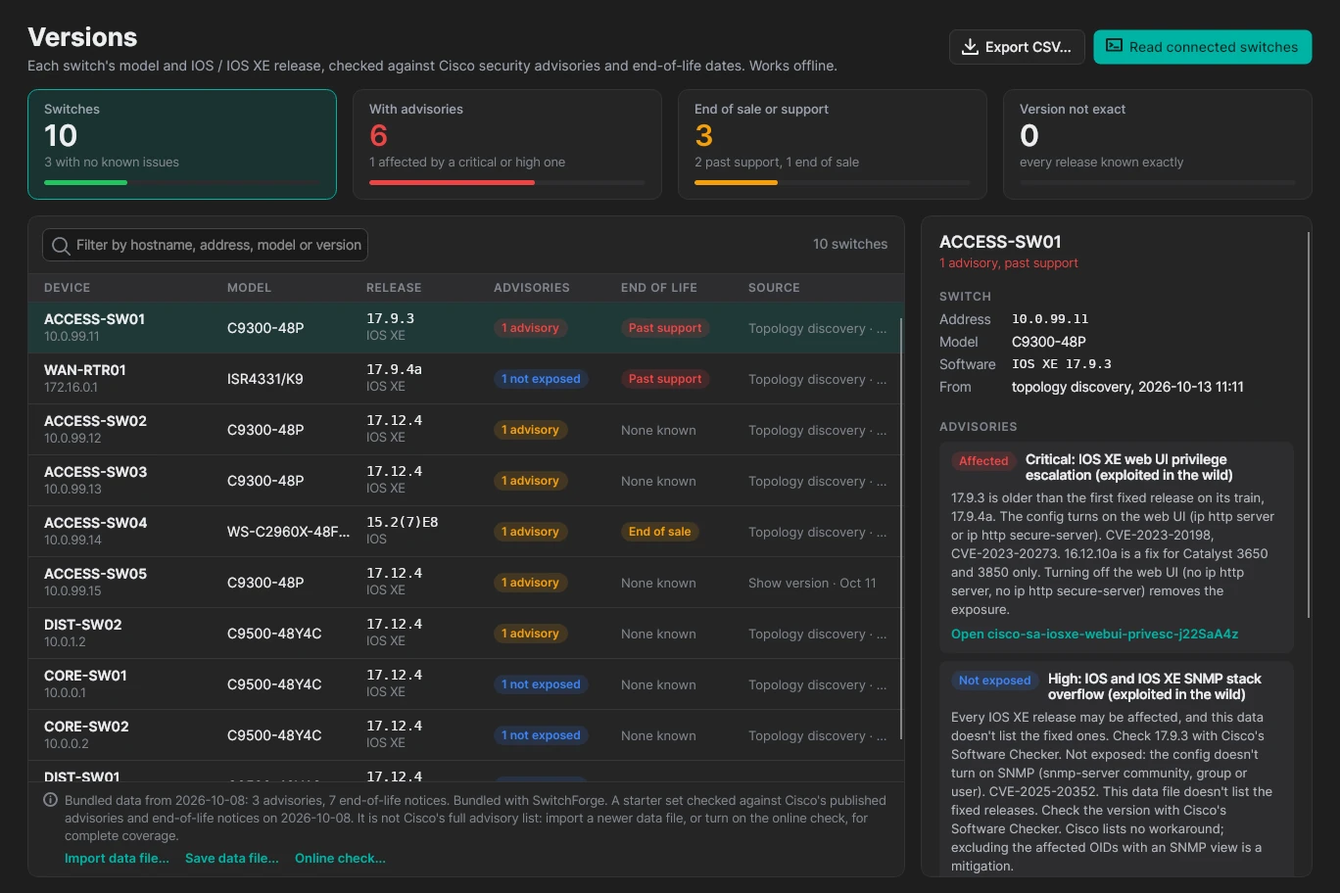
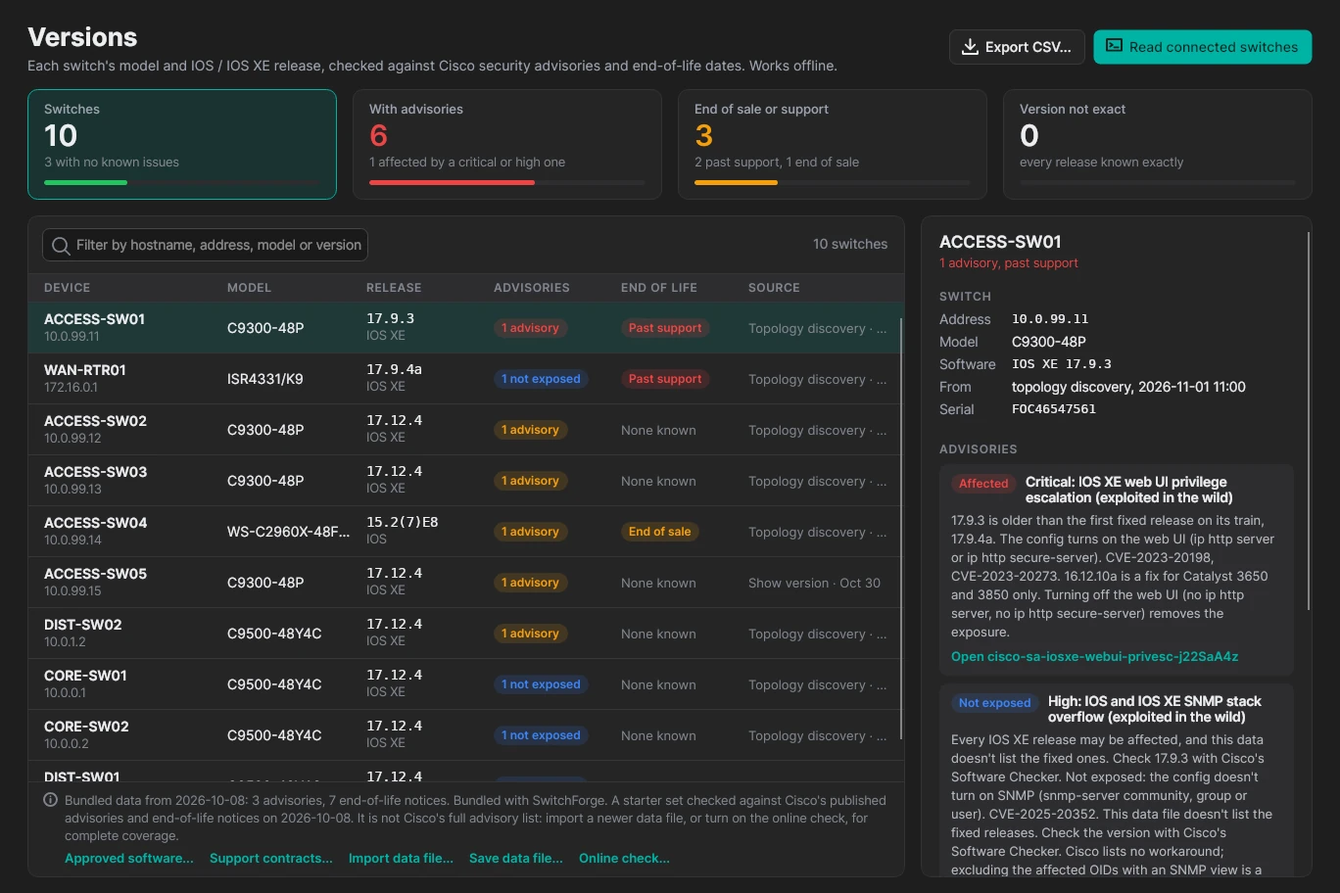
Update the page for 0.8.0: redesigned screenshots and new features
Fresh screenshots of the redesigned app (same sample fleet), a new
'Compare any two versions' block for the diff viewer, and the 0.8.0
features in the Home, Deploy, Comply, Verify and Versions copy. Features
not yet tried on a real switch (backup on change, subnet scan, software
upgrade) say so. Link preview image re-rendered.

Claude-Session: https://claude.ai/code/session_0189rPBmTTVimEn1hnia2L6v

diff --git a/index.html b/index.html
@@ -14,12 +14,12 @@
 <meta property="og:url" content="https://tomadev1.github.io/test-builds/">
 <meta property="og:title" content="SwitchForge · Cisco configs, STIG checks and safe deployment">
 <meta property="og:description" content="Design, check and deploy Cisco configs offline, with DISA STIG checks, evidence-ready checklists and a way back on every change.">
-<meta property="og:image" content="https://tomadev1.github.io/test-builds/assets/og.png?v=0.7.0">
+<meta property="og:image" content="https://tomadev1.github.io/test-builds/assets/og.png?v=0.8.0">
 <meta property="og:image:width" content="1200">
 <meta property="og:image:height" content="630">
 <meta property="og:image:alt" content="SwitchForge: Change Cisco configs without breaking the network, next to the Design page">
 <meta name="twitter:card" content="summary_large_image">
-<meta name="twitter:image" content="https://tomadev1.github.io/test-builds/assets/og.png?v=0.7.0">
+<meta name="twitter:image" content="https://tomadev1.github.io/test-builds/assets/og.png?v=0.8.0">
 <link rel="icon" href="assets/favicon.svg" type="image/svg+xml">
 <link rel="icon" href="assets/favicon-32.png" type="image/png" sizes="32x32">
 <link rel="apple-touch-icon" href="assets/apple-touch-icon.png">
@@ -364,9 +364,9 @@ footer p{max-width:66ch}
     <figure class="shot-hero reveal">
       <div class="window">
         <div class="bar"><i></i><i></i><i></i><span>Design · ACCESS-SW01 · Catalyst C9300-48P + NM-8X</span></div>
-        <img src="assets/img/design.webp?v=0.7.0-2" srcset="assets/img/design.webp?v=0.7.0-2 1x, assets/img/design@2x.webp?v=0.7.0-2 2x" data-full="assets/img/design@2x.webp?v=0.7.0-2"
+        <img src="assets/img/design.webp?v=0.8.0" srcset="assets/img/design.webp?v=0.8.0 1x, assets/img/design@2x.webp?v=0.8.0 2x" data-full="assets/img/design@2x.webp?v=0.8.0"
              width="1600" height="930" fetchpriority="high"
-             alt="The Design page for ACCESS-SW01, a Catalyst C9300-48P with an NM-8X uplink module. Ports 1 to 24 are selected on the front panel and listed one per row with description USER, access mode, VLAN 10 USERS, voice VLAN 20, PoE Auto and BPDU guard. Port settings on the right show access mode, data VLAN 10, voice VLAN 20, PortFast and BPDU guard on, and the config lines for these ports."
+             alt="The Design page for ACCESS-SW01, a Catalyst C9300-48P with an NM-8X uplink module, with the sidebar split into Fleet operations, the device workspace and System. Ports 1 to 24 are selected on the front panel and listed one per row with description USER, access mode, VLAN 10 USERS, voice VLAN 20, PoE Auto and BPDU guard. Port settings on the right show access mode, data VLAN 10, voice VLAN 20, PortFast and BPDU guard on, and the config lines for these ports."
              data-cap="Design: ports 1 to 24 selected on the front panel, listed one per row, with their settings on the right and the config lines they produce underneath.">
       </div>
     </figure>
@@ -382,8 +382,8 @@ footer p{max-width:66ch}
       <a href="#build"><span class="n">01</span><b>Build</b><p>Ports, routing, ACLs, QoS and more. No switch needed.</p></a>
       <a href="#debugger"><span class="n">02</span><b>Validate</b><p>A debugger checks every line as you type.</p></a>
       <a href="#compliance"><span class="n">03</span><b>Comply</b><p>DISA STIGs with evidence and <span class="nw">one-click</span> fixes.</p></a>
-      <a href="#deploy"><span class="n">04</span><b>Deploy</b><p>Safe Commit sends only the changed lines.</p></a>
-      <a href="#fleet"><span class="n">05</span><b>Verify</b><p>Fleet status, drift, versions and topology.</p></a>
+      <a href="#deploy"><span class="n">04</span><b>Deploy</b><p>Review the changes, then send only the changed lines.</p></a>
+      <a href="#fleet"><span class="n">05</span><b>Verify</b><p>An inbox of problems, backups, diffs and versions.</p></a>
     </nav>
   </div>
 </header>
@@ -413,9 +413,9 @@ footer p{max-width:66ch}
         </ul>
       </div>
       <figure class="reveal">
-        <div class="frame"><img src="assets/img/debugger.webp?v=0.7.0-2" srcset="assets/img/debugger.webp?v=0.7.0-2 1x, assets/img/debugger@2x.webp?v=0.7.0-2 2x" data-full="assets/img/debugger@2x.webp?v=0.7.0-2"
+        <div class="frame"><img src="assets/img/debugger.webp?v=0.8.0" srcset="assets/img/debugger.webp?v=0.8.0 1x, assets/img/debugger@2x.webp?v=0.8.0 2x" data-full="assets/img/debugger@2x.webp?v=0.8.0"
           width="1368" height="912" loading="lazy"
-          alt="The Configuration page with a test config loaded: the Global form on the left, the config text in the middle, and the debugger underneath listing 21 problems, including an invalid NTP server, an invalid static route next hop, spanning-tree priority 4097 and Vlan10 overlapping the management subnet, with 14 more on its Compliance tab. On the right, Why is this a problem? explains that 10.20.30.999 isn't a valid IPv4 address, with Show in text and Edit in Design buttons."
+          alt="The Configuration page with a test config loaded: the Global form on the left, the config text in the middle, and the debugger underneath listing 21 problems, including an invalid NTP server, an invalid static route next hop, spanning-tree priority 4097 and Vlan10 overlapping the management subnet, with 16 more on its Compliance tab. On the right, Why is this a problem? explains that 10.20.30.999 isn't a valid IPv4 address, with Show in text and Edit in Design buttons."
           data-cap="A test config full of deliberate mistakes: 21 problems listed under the editor, and the panel explaining why the NTP server is invalid, with Show in text and Edit in Design."></div>
         <figcaption>A test config full of deliberate mistakes, with the reason for the selected one on the right.</figcaption>
       </figure>
@@ -424,7 +424,7 @@ footer p{max-width:66ch}
     <div class="feature">
       <div class="copy reveal">
         <h3>Routing builders: OSPF, EIGRP and&nbsp;BGP</h3>
-        <p>Every part of the config has a form, listed down the left with its status. Shown here: BGP on an edge switch with an ISP neighbor and an iBGP peer.</p>
+        <p>Every part of the config has a form, listed down the left with its status, and the form shows one section at a time. Shown here: BGP on an edge switch with an ISP neighbor and an iBGP peer.</p>
         <ul class="ticks">
           <li><b>Neighbors</b> with their remote AS, description and update source, and switches for activate, <span class="nw">next-hop-self</span> and shutdown</li>
           <li><b>Networks to advertise</b>, one row each</li>
@@ -433,7 +433,7 @@ footer p{max-width:66ch}
         </ul>
       </div>
       <figure class="reveal">
-        <div class="frame"><img src="assets/img/routing.webp?v=0.7.0-2" srcset="assets/img/routing.webp?v=0.7.0-2 1x, assets/img/routing@2x.webp?v=0.7.0-2 2x" data-full="assets/img/routing@2x.webp?v=0.7.0-2"
+        <div class="frame"><img src="assets/img/routing.webp?v=0.8.0" srcset="assets/img/routing.webp?v=0.8.0 1x, assets/img/routing@2x.webp?v=0.8.0 2x" data-full="assets/img/routing@2x.webp?v=0.8.0"
           width="1080" height="852" loading="lazy"
           alt="The Global configuration form with its Sections list on the left, Routing selected and marked OSPF + BGP. The BGP card explains that a neighbor in the same AS is iBGP and one in another AS is eBGP, then shows router bgp 65010 with router ID 10.255.0.11, a neighbor 203.0.113.1 in AS 64999 described as ISP-A CIRCUIT 4471 with its password and route-map lines kept, a neighbor 10.255.0.12 in AS 65010 described as EDGE-02 with update source Loopback0 and next-hop-self on, and network 10.31.0.0 mask 255.255.0.0."
           data-cap="BGP on an edge switch: an eBGP neighbor to the ISP and an iBGP peer, with the lines the form doesn't show kept as written."></div>
@@ -452,7 +452,7 @@ footer p{max-width:66ch}
         </ul>
       </div>
       <figure class="reveal">
-        <div class="frame"><img src="assets/img/acl.webp?v=0.7.0-2" srcset="assets/img/acl.webp?v=0.7.0-2 1x, assets/img/acl@2x.webp?v=0.7.0-2 2x" data-full="assets/img/acl@2x.webp?v=0.7.0-2"
+        <div class="frame"><img src="assets/img/acl.webp?v=0.8.0" srcset="assets/img/acl.webp?v=0.8.0 1x, assets/img/acl@2x.webp?v=0.8.0 2x" data-full="assets/img/acl@2x.webp?v=0.8.0"
           width="784" height="912" loading="lazy"
           alt="The ACL builder. Extended ACL USERS-IN has a remark, Users can't reach the management VLAN, then a logged deny ip from 10.0.10.0/24 to 10.0.99.0/24, a permit udp from any to any eq bootps and a permit ip any any, each with a drag handle and arrows. Below are Add rule, Add remark and Add deny any (logged) buttons, the VTY lines option, the ACL applied to interface Vlan10 (USERS) inbound, and the generated CLI."
           data-cap="ACL builder: extended ACL USERS-IN, applied to Vlan10 inbound, with its generated CLI."></div>
@@ -470,7 +470,7 @@ footer p{max-width:66ch}
         <div class="card"><h4>Management and monitoring</h4><p>SNMPv3, syslog, NetFlow, SPAN and RSPAN, stack provisioning and PoE per port.</p></div>
         <div class="card"><h4>Import a <span class="nw">running-config</span></h4><p>The switch model is detected, and lines stay exactly as the file had them until you edit them. The import report lists anything that wouldn't come back unchanged.</p></div>
         <div class="card"><h4>Copy and paste ports</h4><p>Right-click a port to copy its settings and paste them onto any selection.</p></div>
-        <div class="card"><h4>Scripts and bulk staging</h4><p>Config snippets with variables, Tcl or Python for the switch, and many switches staged from a spreadsheet.</p></div>
+        <div class="card"><h4>Scripts, bulk staging and site templates</h4><p>Config snippets with variables, many switches staged from a spreadsheet, or a whole site described in a short text file: every switch's config and project, a cabling plan and a device list to import.</p></div>
       </div>
     </div>
   </section>
@@ -493,14 +493,15 @@ footer p{max-width:66ch}
         <ul class="ticks">
           <li><b>Evidence written to the checklist</b>: the config lines behind every result</li>
           <li><b><span class="nw">One-click</span> fixes</b> for a rule, or <b>Fix all open</b> findings at once</li>
+          <li><b>Where each rule stands</b> on the switch: Open, Fix staged, Committed, Verified fixed, or Open in design</li>
           <li><b>Filter</b> by result and severity, or search rule IDs, titles and CCIs</li>
           <li><b>Export</b> a <code>.cklb</code> for STIG Viewer 3 and eMASS, a <code>.ckl</code>, or a POA&amp;M draft</li>
         </ul>
       </div>
       <figure class="reveal">
-        <div class="frame"><img src="assets/img/stig.webp?v=0.7.0-2" srcset="assets/img/stig.webp?v=0.7.0-2 1x, assets/img/stig@2x.webp?v=0.7.0-2 2x" data-full="assets/img/stig@2x.webp?v=0.7.0-2"
+        <div class="frame"><img src="assets/img/stig.webp?v=0.8.0" srcset="assets/img/stig.webp?v=0.8.0 1x, assets/img/stig@2x.webp?v=0.8.0 2x" data-full="assets/img/stig@2x.webp?v=0.8.0"
           width="1368" height="912" loading="lazy"
-          alt="The Compliance page's STIG tab, checking the configuration generated for ACCESS-SW01 against the Cisco IOS XE Switch L2S STIG V3R2: open CAT I 1, open CAT II 10, open CAT III 1, not a finding 8 and needs manual review 0, with 12 open of 22 checks. Rule CISC-L2-000020 (V-220649, 802.1X) is selected and open because 802.1X/MAB isn't configured, found by a built-in check. The evidence shows the interface range Gi1/0/1 - 36 lines, and the fix is Turn on 802.1X with MAB fallback. Export .cklb, POA&amp;M, Fix all open and Check fleet buttons sit at the top."
+          alt="The Compliance page's STIG tab, checking the configuration generated for ACCESS-SW01 against the Cisco IOS XE Switch L2S STIG V3R2: open CAT I 1, open CAT II 10, open CAT III 1, not a finding 8 and needs manual review 0, with 12 open of 22 checks. Rule CISC-L2-000020 (V-220649, 802.1X) is selected and open because 802.1X/MAB isn't configured, found by a built-in check, and marked Open in the design. The evidence shows the interface range Gi1/0/1 - 36 lines, and the fix is Turn on 802.1X with MAB fallback. Export .cklb, POA&amp;M, Fix all open and Bulk check buttons sit at the top."
           data-cap="The STIG tab for ACCESS-SW01: 12 open findings by category, rule V-220649 open with the config lines behind it, and its fix."></div>
         <figcaption>Rule V-220649 is open, with the evidence that goes into the checklist and its fix.</figcaption>
       </figure>
@@ -517,7 +518,7 @@ footer p{max-width:66ch}
         </ul>
       </div>
       <figure class="reveal">
-        <div class="frame doc"><div class="bar" aria-hidden="true"><i></i><i></i><i></i><span>ACCESS-SW01 STIG report · HTML</span></div><img src="assets/img/report-stig.webp?v=0.7.0-2" srcset="assets/img/report-stig.webp?v=0.7.0-2 1x, assets/img/report-stig@2x.webp?v=0.7.0-2 2x" data-full="assets/img/report-stig@2x.webp?v=0.7.0-2"
+        <div class="frame doc"><div class="bar" aria-hidden="true"><i></i><i></i><i></i><span>ACCESS-SW01 STIG report · HTML</span></div><img src="assets/img/report-stig.webp?v=0.8.0" srcset="assets/img/report-stig.webp?v=0.8.0 1x, assets/img/report-stig@2x.webp?v=0.8.0 2x" data-full="assets/img/report-stig@2x.webp?v=0.8.0"
           width="820" height="900" loading="lazy"
           alt="An HTML STIG report for ACCESS-SW01 with a CUI banner, a summary table for the L2S STIG (1 CAT I, 10 CAT II and 1 CAT III open, 8 not a finding, 2 not applicable, 0 not reviewed, 40% compliance) and the first of 12 open findings, V-220649, with its CCIs and the configuration lines behind it."
           data-cap="The STIG report for ACCESS-SW01: banner, summary with the compliance score, and each open finding with its evidence."></div>
@@ -536,6 +537,9 @@ footer p{max-width:66ch}
         <div class="card"><h4>Fleet-wide runs</h4><p>Check every switch's newest backup at once, then save one fleet report, one POA&amp;M, or a checklist per switch.</p></div>
         <div class="card"><h4>Policy packs</h4><p>Your own golden standards with required and forbidden lines, scoped by device role.</p></div>
         <div class="card"><h4>STIG release compare</h4><p>See which rules a new STIG release adds, removes or changes before you switch to it.</p></div>
+        <div class="card"><h4>Bulk check a folder</h4><p>Point it at a folder of saved configs and get a summary, the POA&amp;M, and a .cklb and HTML report per switch. Files it can't read are listed with the reason, and never pass.</p></div>
+        <div class="card"><h4>Compliance per feature</h4><p>AAA, SSH and VTY, logging, NTP, SNMP and more, across every switch in one table, saved as CSV.</p></div>
+        <div class="card"><h4>Fix plans</h4><p>Turn the same failure on many switches into one approved change, deployed switch by switch through Safe Commit.</p></div>
       </div>
     </div>
   </section>
@@ -545,18 +549,18 @@ footer p{max-width:66ch}
     <div class="sec-head reveal">
       <span class="eyebrow">Deploy</span>
       <h2>Every commit has a way&nbsp;back</h2>
-      <p>Safe Commit sends only the lines that changed. Every commit, from the editor, a drift fix, Bulk or the MAC finder, goes through the same approval, recovery point and <span class="nw">command-by-command</span> checks. A backup and a before/after check are on by default, except for quick port fixes from the MAC finder.</p>
+      <p>Review changes shows the proposed commands and the checks before anything is sent, and Safe Commit sends only the lines that changed. Every commit, from the editor, a drift fix, Bulk or the MAC finder, goes through the same approval, recovery point and <span class="nw">command-by-command</span> checks. A backup and a before/after check are on by default, except for quick port fixes from the MAC finder.</p>
     </div>
     <div class="duo">
       <figure class="reveal">
-        <div class="frame"><img src="assets/img/commit.webp?v=0.7.0-3" srcset="assets/img/commit.webp?v=0.7.0-3 1x, assets/img/commit@2x.webp?v=0.7.0-3 2x" data-full="assets/img/commit@2x.webp?v=0.7.0-3"
-          width="780" height="840" loading="lazy"
+        <div class="frame"><img src="assets/img/commit.webp?v=0.8.0" srcset="assets/img/commit.webp?v=0.8.0 1x, assets/img/commit@2x.webp?v=0.8.0 2x" data-full="assets/img/commit@2x.webp?v=0.8.0"
+          width="780" height="910" loading="lazy"
           alt="54 changes to commit to ACCESS-SW01 (10.0.99.11), saying only these commands will be sent, one at a time, after a copy of the running-config is saved to flash. Pre-flight: switch reachable, a warning under Management access kept that Gi1/0/45-48 and Te1/1/3-8 will be shut down so make sure none is the uplink, then configuration syntax, no STIG regressions, best practices and golden standards passed. Below are the 10 command lines that will be sent in 3 interface blocks, the change ticket CHG0042, and options to back up first, schedule a reload in 10 as a safety net, check the switch before and after, and save to startup-config."
           data-cap="Before: only the changed lines, with the pre-flight checks. A warning flags the ports that will be shut down. You can edit the commands before committing."></div>
         <figcaption><b>Before.</b> 54 port changes go out as 10 lines in 3 interface ranges, and the pre-flight warns about the ports being shut down.</figcaption>
       </figure>
       <figure class="reveal">
-        <div class="frame"><img src="assets/img/commit-report.webp?v=0.7.0-3" srcset="assets/img/commit-report.webp?v=0.7.0-3 1x, assets/img/commit-report@2x.webp?v=0.7.0-3 2x" data-full="assets/img/commit-report@2x.webp?v=0.7.0-3"
+        <div class="frame"><img src="assets/img/commit-report.webp?v=0.8.0" srcset="assets/img/commit-report.webp?v=0.8.0 1x, assets/img/commit-report@2x.webp?v=0.8.0 2x" data-full="assets/img/commit-report@2x.webp?v=0.8.0"
           width="640" height="740" loading="lazy"
           alt="Change deployed and verified on 10.0.99.11 with ticket CHG0042, for a C9300-48P on 17.9.3, with its serial and plan hash. The pre-checks from before the commit are followed by three more that passed: approved for exactly these commands, same switch, and switch unchanged since it was read. The change had a backup first, a reload-in-10 safety net and a recovery point on flash, and the switch accepted all 10 lines. Every post-check passed, from still reachable to spanning-tree root unchanged, with an Export report button."
           data-cap="After: the deployment record for CHG0042, with the approval, the same-switch check, every line accepted and every post-check passed."></div>
@@ -564,9 +568,9 @@ footer p{max-width:66ch}
       </figure>
     </div>
     <div class="phases reveal">
-      <div class="phase"><span class="k">Pre-flight</span><p>The switch is reachable, and any command that could cut off management access is flagged. For changes from the editor, the commit stops if the switch isn't the one you read or has changed since, and debugger errors and STIG or <span class="nw">golden-standard</span> regressions are flagged before you approve.</p></div>
+      <div class="phase"><span class="k">Pre-flight</span><p>The switch is reachable, and any command that could cut off management access is flagged. For changes from the editor, the commit stops if the switch isn't the one you read or has changed since, and debugger errors and STIG or <span class="nw">golden-standard</span> regressions are flagged before you approve. A failed check has no <span class="nw">one-click</span> way past it: an override needs a reason and the hostname, and goes on the record.</p></div>
       <div class="phase"><span class="k">Change</span><p>You approve the exact commands, and risky ones need the hostname typed. A backup and a recovery point (a flash copy, or a checkpoint on <span class="nw">NX-OS</span>) come first, then on IOS and IOS&nbsp;XE a <span class="nw">reload-in-10</span> safety net. Commands go one at a time and stop at the first one the switch refuses.</p></div>
-      <div class="phase"><span class="k">Post-check</span><p>Still reachable, every command accepted, and before/after compared: ports, <span class="nw">err-disabled</span>, CDP neighbors, MAC learning, the <span class="nw">spanning-tree</span> root, and OSPF, EIGRP and BGP neighbors. A failed check offers a rollback, confirmed by reading the config back.</p></div>
+      <div class="phase"><span class="k">Post-check</span><p>Still reachable, every command accepted, and before/after compared: ports, <span class="nw">err-disabled</span>, CDP neighbors, MAC learning, the <span class="nw">spanning-tree</span> root, and OSPF, EIGRP and BGP neighbors. The change is called verified only when every check ran and passed. A failed check offers a rollback, confirmed by reading the config back.</p></div>
     </div>
     <p class="note reveal">These safeguards are tested against a simulated switch so far. Try them on a lab switch first, and tell us how it went.</p>
   </section>
@@ -576,26 +580,27 @@ footer p{max-width:66ch}
     <div class="sec-head reveal">
       <span class="eyebrow">Verify</span>
       <h2>The whole fleet, without logging in to each switch</h2>
-      <p>State, history and drift, worked out from the newest backups.</p>
+      <p>State, history and drift, worked out from the newest backups. Every fact is labelled with where it came from.</p>
     </div>
 
     <div class="feature wide">
       <div class="copy wide-head reveal">
         <div>
-          <h3>Home: what needs you today</h3>
-          <p>The app opens on the whole network at a glance, worked out from the newest backups.</p>
+          <h3>Home: an inbox of what needs you</h3>
+          <p>The app opens on the whole network at a glance, with its problems ranked Critical, Action required and Plan.</p>
         </div>
         <ul class="ticks">
           <li><b>Reachable switches, STIG compliance, open CAT I findings, drift and backups</b> across the top</li>
-          <li><b>The switches that need attention</b>, most urgent first, with the reason on each row</li>
-          <li><b>Findings by severity</b>, recent activity from the change log, and your recent projects</li>
+          <li><b>Each problem</b> says what's wrong, what it affects and the next safe step, with a button to the page where you do it</li>
+          <li><b>Snooze, dismiss with a reason, or resolve</b> a problem. It opens again if the facts change.</li>
+          <li><b>Findings by severity</b>, open sessions and your recent projects</li>
         </ul>
       </div>
       <figure class="reveal">
-        <div class="frame"><img src="assets/img/home.webp?v=0.7.0-2" srcset="assets/img/home.webp?v=0.7.0-2 1x, assets/img/home@2x.webp?v=0.7.0-2 2x" data-full="assets/img/home@2x.webp?v=0.7.0-2"
+        <div class="frame"><img src="assets/img/home.webp?v=0.8.0" srcset="assets/img/home.webp?v=0.8.0 1x, assets/img/home@2x.webp?v=0.8.0 2x" data-full="assets/img/home@2x.webp?v=0.8.0"
           width="1368" height="912" loading="lazy"
-          alt="The Home page for 10 switches, with backups scheduled every 24 hours. Across the top: 9 of 10 switches reachable with 1 unreachable, 82% STIG compliance with 6 of 10 switches compliant, 2 open CAT I findings on 2 switches, 1 switch changed since known-good, 9 of 10 backups in the last 24 hours with 1 failed (no reply on port 22), and 4 errors and high findings in this project. Needs attention lists ACCESS-SW05 (backup failed), ACCESS-SW01 (12 open STIG rules, 1 CAT I), ACCESS-SW04 (14 open STIG rules, 1 CAT I) and DIST-SW02 (drifted, 4 changes). On the right, compliance by severity and the recent project ACCESS-SW01; below, recent activity from the change log."
-          data-cap="Home: 10 switches at a glance, and the 4 that need attention, each with the reason."></div>
+          alt="The Home page for 10 switches, with backups scheduled every 24 hours and the newest backup marked OBSERVED. Across the top: 9 of 10 switches reachable, 83% STIG compliance with 6 of 10 switches compliant, 2 open CAT I findings on 2 switches, 1 switch changed since known-good, 9 of 10 backups in the last 24 hours with 1 failed (no reply on port 22), and 4 errors and high findings in this project. Needs attention has 6 open problems with Snoozed, Dismissed and Resolved tabs. Critical: ACCESS-SW05 is unreachable. Action required: 2 CAT I rules open on 2 switches, and 6 switches on a release with Cisco security advisories. Plan: 2 switches past the end of support, and DIST-SW02 drifted from its known-good backup. Each row shows what's wrong, what it affects, the next safe action and a button. On the right, compliance by severity, open sessions and the recent project ACCESS-SW01."
+          data-cap="Home: 6 open problems across 10 switches, ranked Critical, Action required and Plan, each with the next safe step."></div>
       </figure>
     </div>
 
@@ -612,7 +617,7 @@ footer p{max-width:66ch}
         </ul>
       </div>
       <figure class="reveal">
-        <div class="frame"><img src="assets/img/topology.webp?v=0.7.0-2" srcset="assets/img/topology.webp?v=0.7.0-2 1x, assets/img/topology@2x.webp?v=0.7.0-2 2x" data-full="assets/img/topology@2x.webp?v=0.7.0-2"
+        <div class="frame"><img src="assets/img/topology.webp?v=0.8.0" srcset="assets/img/topology.webp?v=0.8.0 1x, assets/img/topology@2x.webp?v=0.8.0 2x" data-full="assets/img/topology@2x.webp?v=0.8.0"
           width="1545" height="610" loading="lazy"
           alt="The Topology map: CORE-SW01, WAN-RTR01 and CORE-SW02 in the core layer, DIST-SW01 and DIST-SW02 in distribution, and five access switches below, linked by blue trunk lines and purple routed lines, most labelled with the port names on each end. ACCESS-SW05 has a dashed red border and says couldn't read, and ACCESS-SW01 and ACCESS-SW02 carry 2 endpoints and 1 endpoint badges."
           data-cap="Topology: core, distribution and access layers, with trunks in blue, routed links in purple, and a switch that couldn't be read outlined in red."></div>
@@ -630,10 +635,28 @@ footer p{max-width:66ch}
         </ul>
       </div>
       <figure class="reveal">
-        <div class="frame"><img src="assets/img/whatchanged.webp?v=0.7.0-2" srcset="assets/img/whatchanged.webp?v=0.7.0-2 1x, assets/img/whatchanged@2x.webp?v=0.7.0-2 2x" data-full="assets/img/whatchanged@2x.webp?v=0.7.0-2"
+        <div class="frame"><img src="assets/img/whatchanged.webp?v=0.8.0" srcset="assets/img/whatchanged.webp?v=0.8.0 1x, assets/img/whatchanged@2x.webp?v=0.8.0 2x" data-full="assets/img/whatchanged@2x.webp?v=0.8.0"
           width="832" height="824" loading="lazy"
-          alt="What changed on DIST-SW02, from its known-good backup of 2026-10-06 14:12 to its newest backup of 2026-10-13 11:11: 4 changes, 1 touching security. Security-related comes first: an SNMP community was added, its string hidden. Then VLAN 77 TEMP-VENDOR was added, and an NTP server was removed and another added, followed by the line-by-line diff with 4 lines added in green and 1 removed in red."
+          alt="What changed on DIST-SW02, from its known-good backup of 2026-10-25 14:12 to its newest backup of 2026-11-01 11:00: 4 changes, 1 touching security. Security-related comes first: an SNMP community was added, its string hidden. Then VLAN 77 TEMP-VENDOR was added, and an NTP server was removed and another added, followed by the line-by-line diff with 4 lines added in green and 1 removed in red."
           data-cap="What changed on DIST-SW02 since its known-good backup: the security change first, then grouped changes and the line-by-line diff."></div>
+      </figure>
+    </div>
+
+    <div class="feature">
+      <div class="copy reveal">
+        <h3>Compare any two versions</h3>
+        <p>A diff viewer for backups and show outputs, side by side or unified.</p>
+        <ul class="ticks">
+          <li><b>Word-level highlights</b>, so a changed address stands out on its line</li>
+          <li><b>Ignore rules</b> for lines that change on their own, like timestamps</li>
+          <li><b>Compare with another switch</b>, like two access switches that should match</li>
+        </ul>
+      </div>
+      <figure class="reveal">
+        <div class="frame"><img src="assets/img/diff.webp?v=0.8.0" srcset="assets/img/diff.webp?v=0.8.0 1x, assets/img/diff@2x.webp?v=0.8.0 2x" data-full="assets/img/diff@2x.webp?v=0.8.0"
+          width="832" height="544" loading="lazy"
+          alt="DIST-SW02's known-good backup from 2026-10-25 14:12 compared side by side with its newest from 2026-11-01: 1 line changed, 3 added, 0 removed, with Side by side, Unified and Ignore rules controls. Unchanged runs are folded. VLAN 77 TEMP-VENDOR and an SNMP community line are added on the right, and the NTP server line changed, with only the address highlighted: 198.51.100.6 on the left, 192.0.2.123 on the right."
+          data-cap="Two backups of DIST-SW02 side by side: the added lines, and the changed NTP address highlighted on its line."></div>
       </figure>
     </div>
 
@@ -645,14 +668,15 @@ footer p{max-width:66ch}
         </div>
         <ul class="ticks">
           <li><b>Advisories that apply</b>, including whether the config turns on the affected feature</li>
-          <li><b>End of sale and support</b> flagged per switch</li>
+          <li><b>End of sale and support</b> flagged per switch, and for modules, power supplies and optics</li>
+          <li><b>Approved software</b> per model, so a switch on anything else is flagged, and support contracts per serial number</li>
           <li><b>Works offline</b> from a bundled starter set. Import a newer data file, or turn on the online check with your own Cisco API key.</li>
         </ul>
       </div>
       <figure class="reveal">
-        <div class="frame"><img src="assets/img/versions.webp?v=0.7.0-2" srcset="assets/img/versions.webp?v=0.7.0-2 1x, assets/img/versions@2x.webp?v=0.7.0-2 2x" data-full="assets/img/versions@2x.webp?v=0.7.0-2"
+        <div class="frame"><img src="assets/img/versions.webp?v=0.8.0" srcset="assets/img/versions.webp?v=0.8.0 1x, assets/img/versions@2x.webp?v=0.8.0 2x" data-full="assets/img/versions@2x.webp?v=0.8.0"
           width="1368" height="912" loading="lazy"
-          alt="The Versions page: 10 switches, 6 with advisories (1 affected by a critical or high one), 3 at end of sale or support, and every release known exactly. ACCESS-SW01 on IOS XE 17.9.3 is selected: it is marked Affected by the critical IOS XE web UI advisory because its config turns on the web UI, and its release is past support. A note at the bottom says the bundled data is a starter set, with Import data file and Online check links."
+          alt="The Versions page: 10 switches, 6 with advisories (1 affected by a critical or high one), 3 at end of sale or support, and every release known exactly. ACCESS-SW01 on IOS XE 17.9.3 is selected: it is marked Affected by the critical IOS XE web UI advisory because its config turns on the web UI, and its release is past support. A note at the bottom says the bundled data is a starter set, with Approved software, Support contracts, Import data file and Online check links."
           data-cap="Versions: ACCESS-SW01 is affected by the web UI advisory because its config turns on the web UI."></div>
       </figure>
     </div>
@@ -660,14 +684,18 @@ footer p{max-width:66ch}
     <div class="also">
       <h3 class="also-h reveal">Also in Verify</h3>
       <div class="cards four reveal">
-        <div class="card"><h4>Fleet board</h4><p>Every switch from its newest backup: compliant, drifted, <span class="nw">non-compliant</span> or unreachable, with the reason on each row.</p></div>
+        <div class="card"><h4>Fleet board</h4><p>Every switch from its newest backup: compliant, drifted, <span class="nw">non-compliant</span> or unreachable, with tags, notes and saved groups.</p></div>
         <div class="card"><h4>Live dashboard</h4><p>Ports, MACs, CDP and OSPF, EIGRP and BGP neighbors in plain English, on Catalyst and Nexus, plus Look up route.</p></div>
         <div class="card"><h4>IP plan</h4><p>A subnet tree filled in from your switches, with duplicate IP checks and Excel import and export.</p></div>
-        <div class="card"><h4>Scheduled backups</h4><p>Hourly to weekly while SwitchForge is open, with an alert on drift that turns red when security settings change.</p></div>
-        <div class="card"><h4>Backup history</h4><p>Each switch's configs with their model, serial and software, diffs against the switch now, and restore by Commit.</p></div>
-        <div class="card"><h4>Search every backup</h4><p>Find which switches have, or are missing, any config line.</p></div>
+        <div class="card"><h4>Scheduled backups</h4><p>Hourly to weekly, and they can keep running with SwitchForge closed. Every new backup is checked for compliance, and old ones are pruned, never the known-good.</p></div>
+        <div class="card"><h4>Show outputs</h4><p>Inventory, interfaces, VLANs, neighbors, routes and spanning tree kept with each scheduled backup, and compared between versions.</p></div>
+        <div class="card"><h4>Back up on change</h4><p>A backup as soon as a switch logs a config change. Off by default, and not yet tried on a real switch.</p></div>
+        <div class="card"><h4>Search every backup</h4><p>Find which switches have, or are missing, any lines, with AND or OR, a date range and context, or search the fleet like <code>model:C9300 tag:core</code>.</p></div>
         <div class="card"><h4>Find a MAC or IP</h4><p>Trace a device to the switch port it's plugged into, then configure that port.</p></div>
         <div class="card"><h4>Topology overlays</h4><p>Color the map by STIG results or drift, and compare two discovery snapshots.</p></div>
+        <div class="card"><h4>Devices in and out</h4><p>Import switches from CSV with a preview of every change, export them the same way, and see which stopped answering ping.</p></div>
+        <div class="card"><h4>Find devices</h4><p>Scan a subnet for SSH and Telnet devices, read their show version, and add them. Not yet tried on a real network.</p></div>
+        <div class="card"><h4>Software upgrades</h4><p>Copy the image, verify its checksum, set the boot variable, save and reload, one checked step at a time. Try it in a lab first.</p></div>
       </div>
     </div>
   </section>
@@ -703,7 +731,7 @@ footer p{max-width:66ch}
       <div class="card">
         <div class="ico"><svg viewBox="0 0 24 24" fill="none" stroke="currentColor" stroke-width="2" stroke-linecap="round" stroke-linejoin="round"><path d="M12 8v4l3 2"/><circle cx="12" cy="12" r="9"/></svg></div>
         <h3>Audit trail</h3>
-        <p>A changelog of every edit, commit and export, and a saved record of each deployment with secrets removed.</p>
+        <p>A changelog of every edit, commit, export and override, with its reason, and a saved record of each deployment with secrets removed.</p>
       </div>
       <div class="card">
         <div class="ico"><svg viewBox="0 0 24 24" fill="none" stroke="currentColor" stroke-width="2" stroke-linecap="round" stroke-linejoin="round"><rect x="3" y="11" width="18" height="10" rx="2"/><path d="M7 11V7a5 5 0 0 1 10 0v4"/></svg></div>
@@ -717,7 +745,7 @@ footer p{max-width:66ch}
       <h2 style="font-size:clamp(24px,2.8vw,32px)">Catalyst, Nexus and ISR</h2>
     </div>
     <div class="models reveal">
-      <div class="model"><h3>Catalyst IOS XE</h3><ul><li>9300</li><li>9200 / 9200L</li><li>9500</li></ul></div>
+      <div class="model"><h3>Catalyst IOS XE</h3><ul><li>9300, including mGig</li><li>9200 / 9200L</li><li>9400 and 9500</li></ul></div>
       <div class="model"><h3>Classic IOS</h3><ul><li>2960-X</li></ul></div>
       <div class="model"><h3>Nexus <span class="nw">NX-OS</span></h3><ul><li>93180YC-FX</li><li>9348GC-FX3PH</li></ul></div>
       <div class="model"><h3>Routers</h3><ul><li>ISR 4331, 4431, 1111-8P</li><li>Catalyst 8200</li><li>Cisco 2911</li></ul></div>
@@ -802,7 +830,7 @@ footer p{max-width:66ch}
       </details>
       <details>
         <summary>How do I report a problem?</summary>
-        <p>Through the contact you received your invitation from. Include the version number (in the main window's title bar, like SwitchForge 0.7.0) and what you were doing.</p>
+        <p>Through the contact you received your invitation from. Include the version number (in the main window's title bar, like SwitchForge 0.8.0) and what you were doing.</p>
       </details>
     </div>
   </section>
